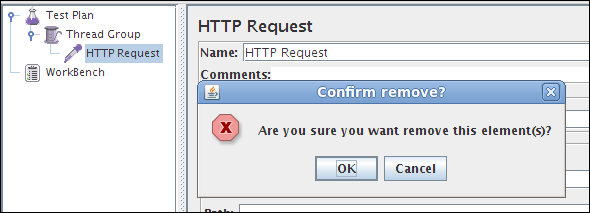
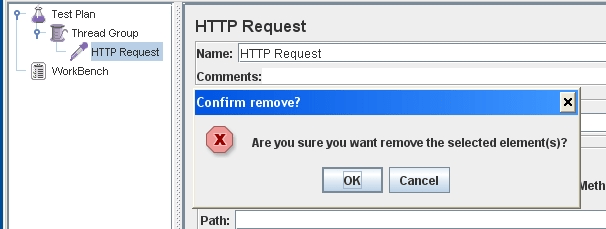
Allow confirm delete dialogue to be suppressed
git-svn-id: https://svn.apache.org/repos/asf/jmeter/trunk@1235112 13f79535-47bb-0310-9956-ffa450edef68

Former-commit-id: 28a368cf212963e5416daf37078d9850b88bbdf9

Changed region(s): [[0.0, 0.0, 1.0, 1.0], [0.5186, 0.7042, 0.7627, 0.8732]]

diff --git a/src/core/org/apache/jmeter/gui/action/Remove.java b/src/core/org/apache/jmeter/gui/action/Remove.java
@@ -37,6 +37,9 @@ public class Remove implements Command {
 
     private static final Set<String> commands = new HashSet<String>();
 
+    // Whether to skip the delete confirmation dialogue
+    private static final boolean SKIP_CONFIRM = JMeterUtils.getPropDefault("confirm.delete.skip", false); // $NON-NLS-1$
+
     static {
         commands.add(ActionNames.REMOVE);
     }
@@ -57,7 +60,8 @@ public class Remove implements Command {
     }
 
     public void doAction(ActionEvent e) {
-        int isConfirm = JOptionPane.showConfirmDialog(null, 
+        
+        int isConfirm = SKIP_CONFIRM ? JOptionPane.YES_OPTION : JOptionPane.showConfirmDialog(null, 
                 JMeterUtils.getResString("remove_confirm_msg"),// $NON-NLS-1$
                 JMeterUtils.getResString("remove_confirm_title"), // $NON-NLS-1$
                 JOptionPane.WARNING_MESSAGE,
